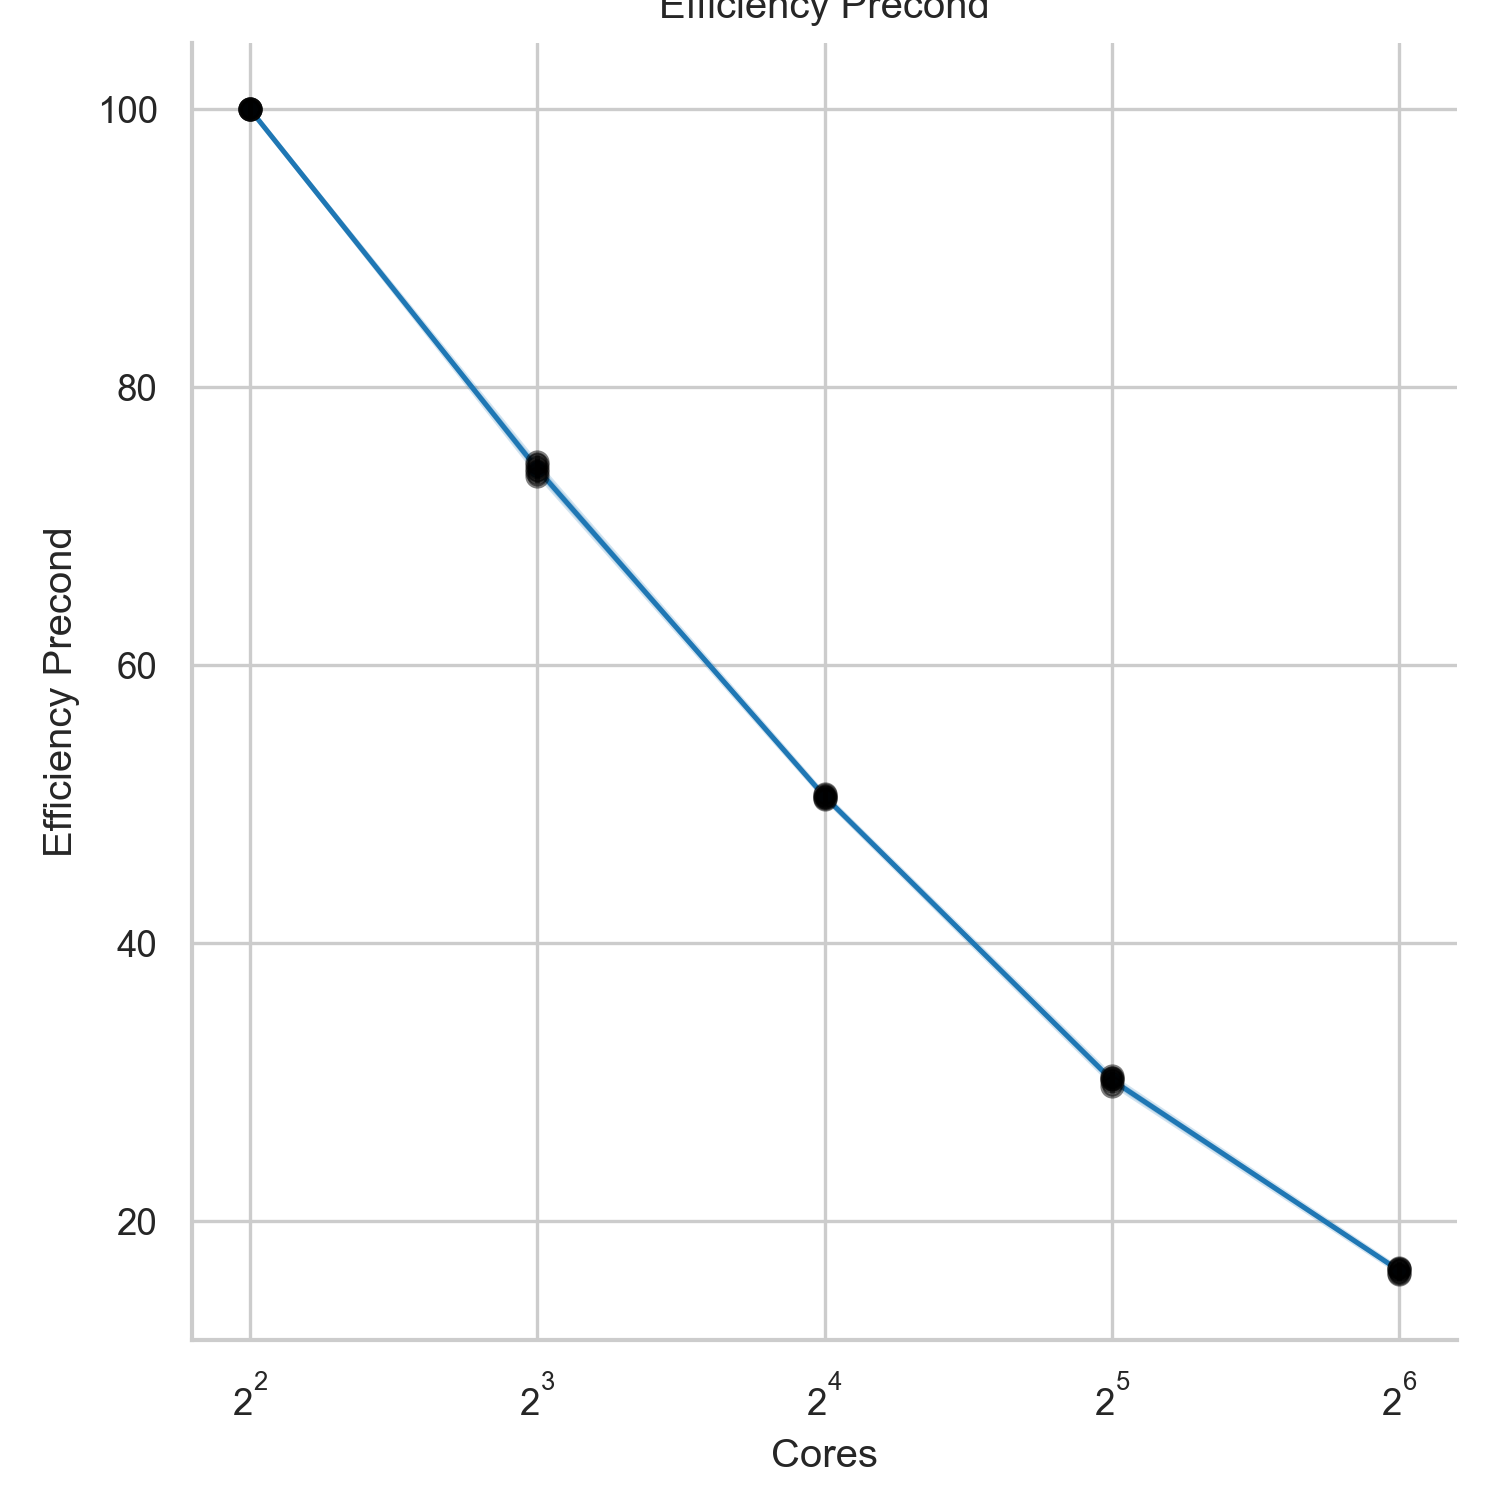
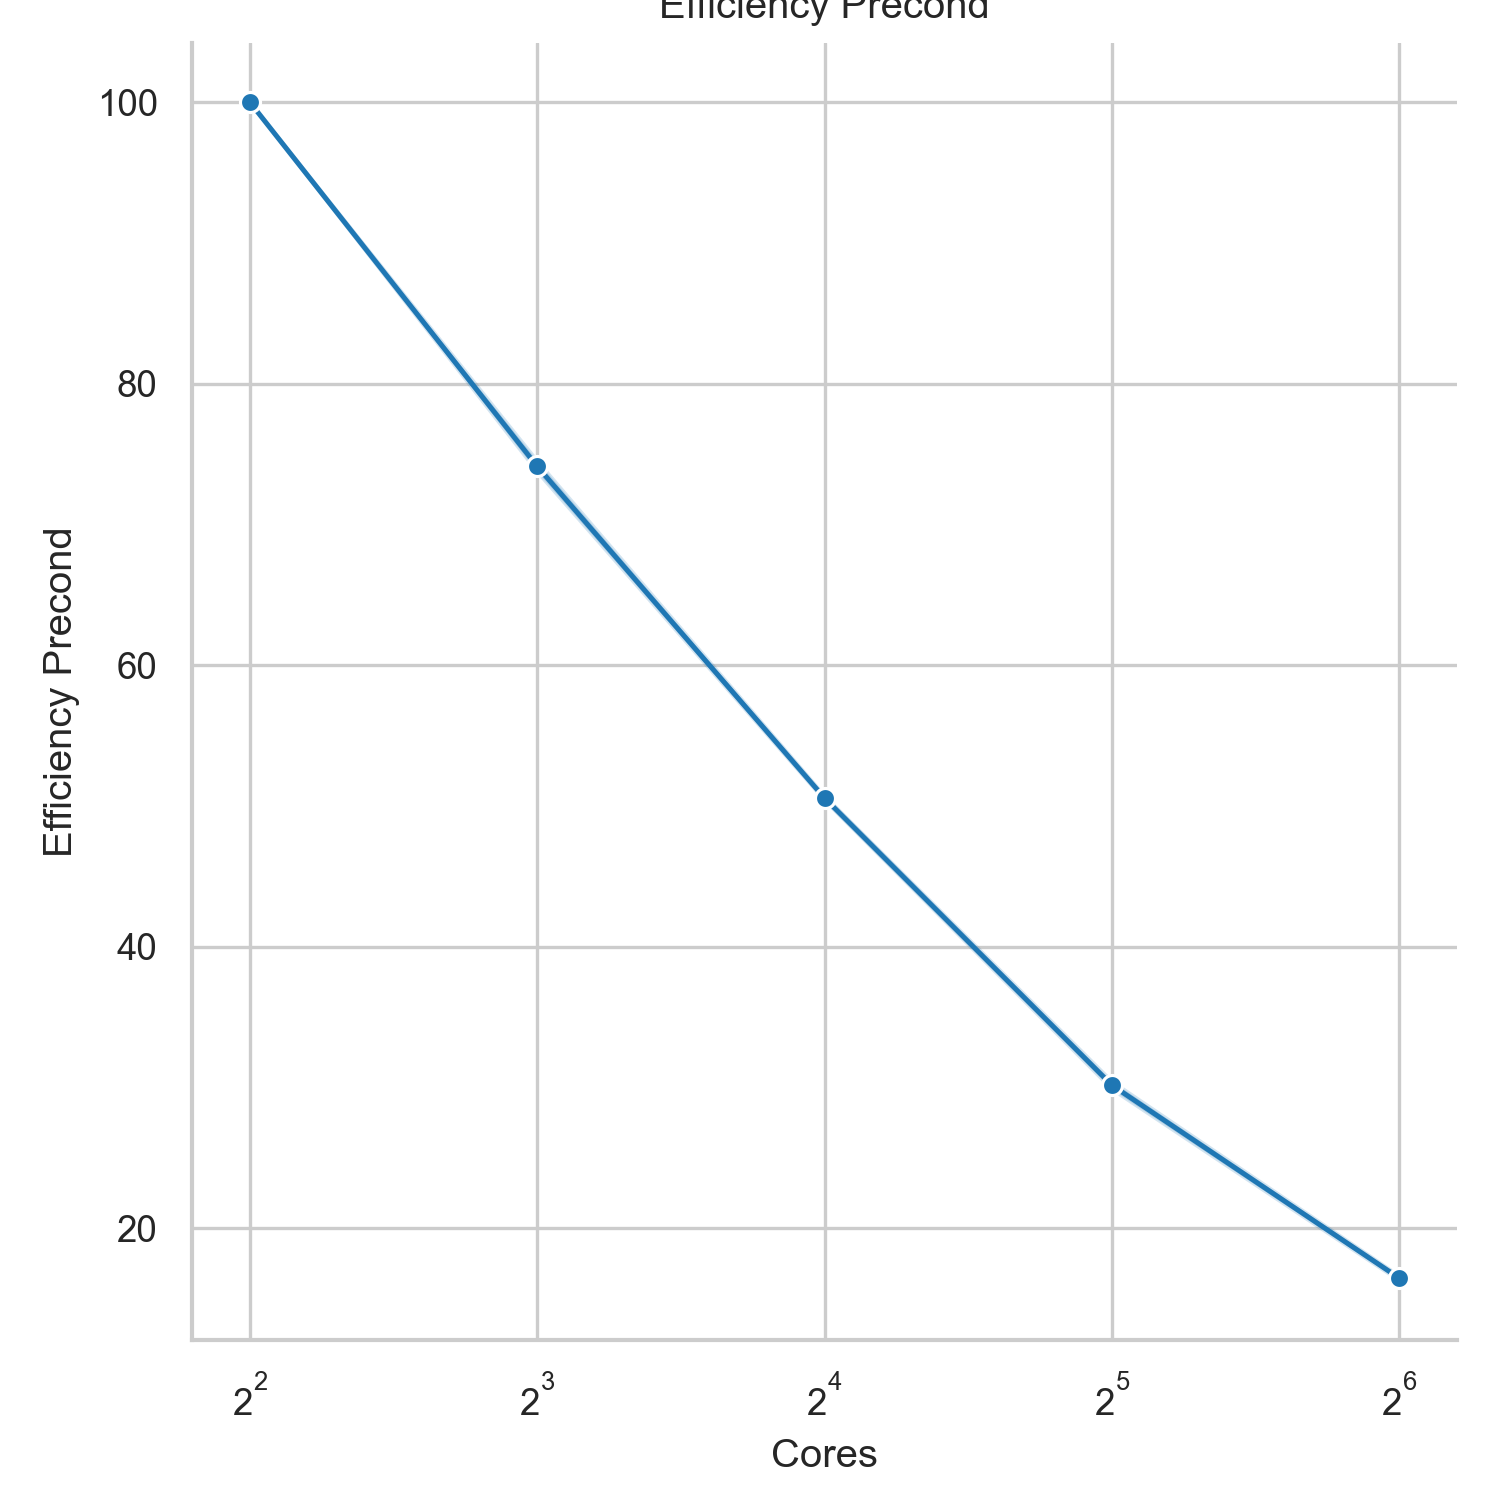
Added working ci, and initial errorbars

diff --git a/python_code/seaborn_data.py b/python_code/seaborn_data.py
@@ -164,7 +164,7 @@ def get_metrics(timer_values_by_core):
             
 
 if __name__ == "__main__":
-    folder_path = r'C:\Users\Rafael\OneDrive\Documents\GitHub\Performance-Regression-Plots\text_files'  # Update with path to folder containing run cases as text files
+    folder_path = r'C:\Users\rcaller\Documents\GitHub\Performance-Regression-Plots\text_files'  # Update with path to folder containing run cases as text files
     data = process_files(folder_path)
 
     data_list = []
@@ -375,7 +375,7 @@ plt.show()
 lol =dfffff.set_index('Cores')
 print(lol)
 
-""" for core in dfffff['Cores'].unique():
+for core in dfffff['Cores'].unique():
     lal =lol.loc[lol.index[core]]
 
     for timer in dfffff['Timer'].unique():
@@ -383,7 +383,7 @@ print(lol)
         lul =lal[(lal['Timer']==timer)]
         print(lul)
         sns.boxplot(data= lul,  x = 'Run', y = 'Time', label = f'{timer}' )
-        plt.show()  """
+        plt.show()  
 
 
 
